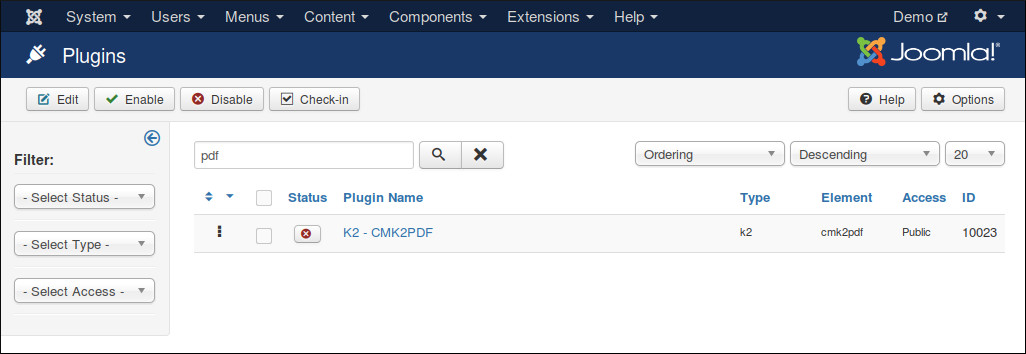
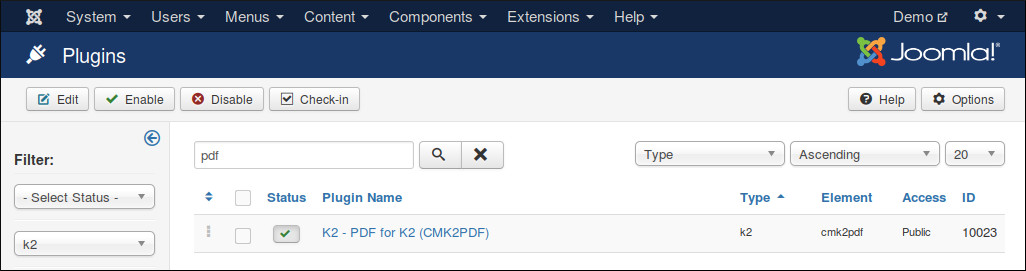
1.1.0

diff --git a/conf.py b/conf.py
@@ -56,9 +56,9 @@ author = 'CMExtension'
 # built documents.
 #
 # The short X.Y version.
-version = '1.0.0'
+version = '1.1.0'
 # The full version, including alpha/beta/rc tags.
-release = '1.0.0'
+release = '1.1.0'
 
 # The language for content autogenerated by Sphinx. Refer to documentation
 # for a list of supported languages.

diff --git a/index.rst b/index.rst
@@ -3,8 +3,9 @@
    You can adapt this file completely to your liking, but it should at least
    contain the root `toctree` directive.
 
+===================================
 Welcome to CMK2PDF's documentation!
-=====================================
+===================================
 
 CMK2PDF is a plugin for `K2 component <http://www.getk2.org/>`_ to give you and your site's visitors ability to view your K2 articles in PDF format, in this way we can not only print K2 articles but also can download them for offline reading.
 
@@ -13,7 +14,7 @@ Conversion from HTML document to PDF document is powered by `MPDF PHP library <h
 This documention gives you instruction to install and setup CMK2PDF and MPDF on your Joomla! website.
 
 Technical Requirements
-----------------------
+======================
 
 CMK2PDF is compatible with Joomla! 3.x.x. CMK2PDF is **NOT** compatible with Joomla! 1.x.x. CMK2PDF could be used on Joomla! 2.5.x, but this is not tested yet.
 
@@ -24,19 +25,19 @@ CMK2PDF is built and tested on K2 2.6.9. It could be used with other older versi
 The latest version of Joomla! and K2 are always recommended for stability and security.
 
 Install CMK2PDF
----------------
+===============
 
 Installing CMK2PDF is very easy, you just need to upload and install its package via Joomla! Extension Manager, just like you install any other Joomla! extensions.
 
 To update CMK2PDF, you just need to install the new version's package.
 
 Install MPDF library
---------------------
+====================
 
 CMK2PDF requires MPDF library to convert HTML to PDF, you also need to install MPDF library.
 
 By uploading the package
-^^^^^^^^^^^^^^^^^^^^^^^^
+------------------------
 
 Because the package of MPDF PHP library is about 47MB, so if your server allows to upload more than 47MB you can install this package via Extension Manager just like installing any other Joomla! extensions. However if you can't install by using "Upload Package File" option, you can use "Install from Directory" option. The following instruction is for installing via "Install from Directory" option.
 
@@ -70,7 +71,7 @@ Click "Install" button the library will be installed, you will get the successfu
 Now mPDF library is installed, you can delete "mpdf.zip" file and "mpdf" folder in your "tmp" folder.
 
 By installing from URL
-^^^^^^^^^^^^^^^^^^^^^^
+----------------------
 
 You can also install MPDF by using direct link to Github's archive. In Joomla! Extension Manager, you switch to "Install from URL" tab, put the link https://github.com/cmextension/mpdf/archive/master.zip into "Install URL" field and click "Install".
 
@@ -78,17 +79,19 @@ You can also install MPDF by using direct link to Github's archive. In Joomla! E
 
 
 Configure CMK2PDF
------------------
+=================
 
-In your Joomla! back-end navigate to Extensions -> Plugins, search for "pdf" to find "K2 - CMK2PDF" plugin.
+In your Joomla! back-end navigate to Extensions -> Plugins, search for "pdf" to find "K2 - PDF for K2 (CMK2PDF)" plugin.
 
 .. image:: /images/plugin_list.jpg
 
 
-Edit the plugin you find the following options:
+Edit the plugin you find 4 tabs for the plugin's configuration: Plugin, Page, Margin and Header & Footer.
+
+Plugin tab
+----------
 
 .. image:: /images/plugin_detail.jpg
-
 
 **Parameter string**
 
@@ -135,6 +138,8 @@ Example: If your parameter string is "pdf=true" then the URL of your article cou
 
 Your K2 article often doesn't inlude any CSS styles, the PDF version of it is also created from plain HTML. So if you want your PDF version looks the same or similar to your HTML version, you may need to include some CSS files to decorate your article. These CSS files often come from your template or your own custom CSS files.
 
+Not all CSS attributes are supported by MPDF library, you can see what MPDF supports at `http://mpdf1.com/manual/index.php?tid=34 <http://mpdf1.com/manual/index.php?tid=34/>`_.
+
 To include these files, you enter their paths into "Additional CSS files" field, one path per line.
 
 If your files come from your current template, their paths often starts with "templates/". If they are in the folders of other components, their paths starts with "components/".
@@ -143,10 +148,62 @@ For example, if you want to include the CSS file of Protostart template (the def
 
 In order to know what CSS you need to include, you can check your template's documentation, ask the template's author or contact us for support.
 
-**Include article's ttile**
+**Force Download**
+
+Force user to download PDF file instead of viewing it on browser.
+
+**Include Intro Text**
+
+Include article's intro text in PDF, it is showed before the main content of article.
+
+**Include Article's Ttile**
 
 By default your article's title is included in its content. If you want to display the article's title on the top of your PDF document, you switch this option to "Yes".
 
-**Article title's heading**
+**Article Title's Heading**
 
 This option give you ability to choose the heading style of your article's title if you set"Include article's ttile" to "Yes". You can wrap your title with <h1>, <h2>, <h3> or <h4> HTML element.
+
+**Include Extra Fields**
+
+If you include extra fields, they are shown after article's content.
+
+The HTML code of extra fields is the same to the default code of K2 with the CSS classes like 
+itemExtraFields, itemExtraFieldsHeader, itemExtraFieldsLabel, itemExtraFieldsValue... So you just need to include your CSS file then the output of extra fields could be the same to article's HTML version.
+
+**Wrap Document With A Locale**
+
+If the content of your article is not English and requires special font to show (for example Russian, Korean, Hebrew,...), you should select your language in this option.
+
+If your article have many languages which have UTF-8 characters, you should wrap the paragraphs with "lang" attribute and their 2 letter language code (ISO 639-1). For example "ru" for Russian, "ko" for Korean. You can find the list of language code at `https://en.wikipedia.org/wiki/List_of_ISO_639-1_codes <https://en.wikipedia.org/wiki/List_of_ISO_639-1_codes>`_. If your languages only use Latin characters, you don't need to set any language code.
+
+Example: <p lang="ru">This text is in Russian</p>
+
+.. image:: /images/article_language.jpg
+
+Page tab
+--------
+
+.. image:: /images/plugin_detail_page.jpg
+
+**Format**
+
+You configure the page format of your PDF document. The popular format is A4.
+
+**Orientation**
+
+The PDF documentation is in portrait or landscape orientation.
+
+Margin tab
+----------
+
+.. image:: /images/plugin_detail_margin.jpg
+
+In this tab you can configure the left, right, top and bottom margin of your document. The values are in millimetres.
+
+Header & Footer tab
+-------------------
+
+.. image:: /images/plugin_detail_header_footer.jpg
+
+With these options you can configure to show or hide the header and footer of your documentation. The header and footer can have title and/or page number, they can be shown on the left side, right side or in the middle.  The values of header and footer margins of are in millimetres.
